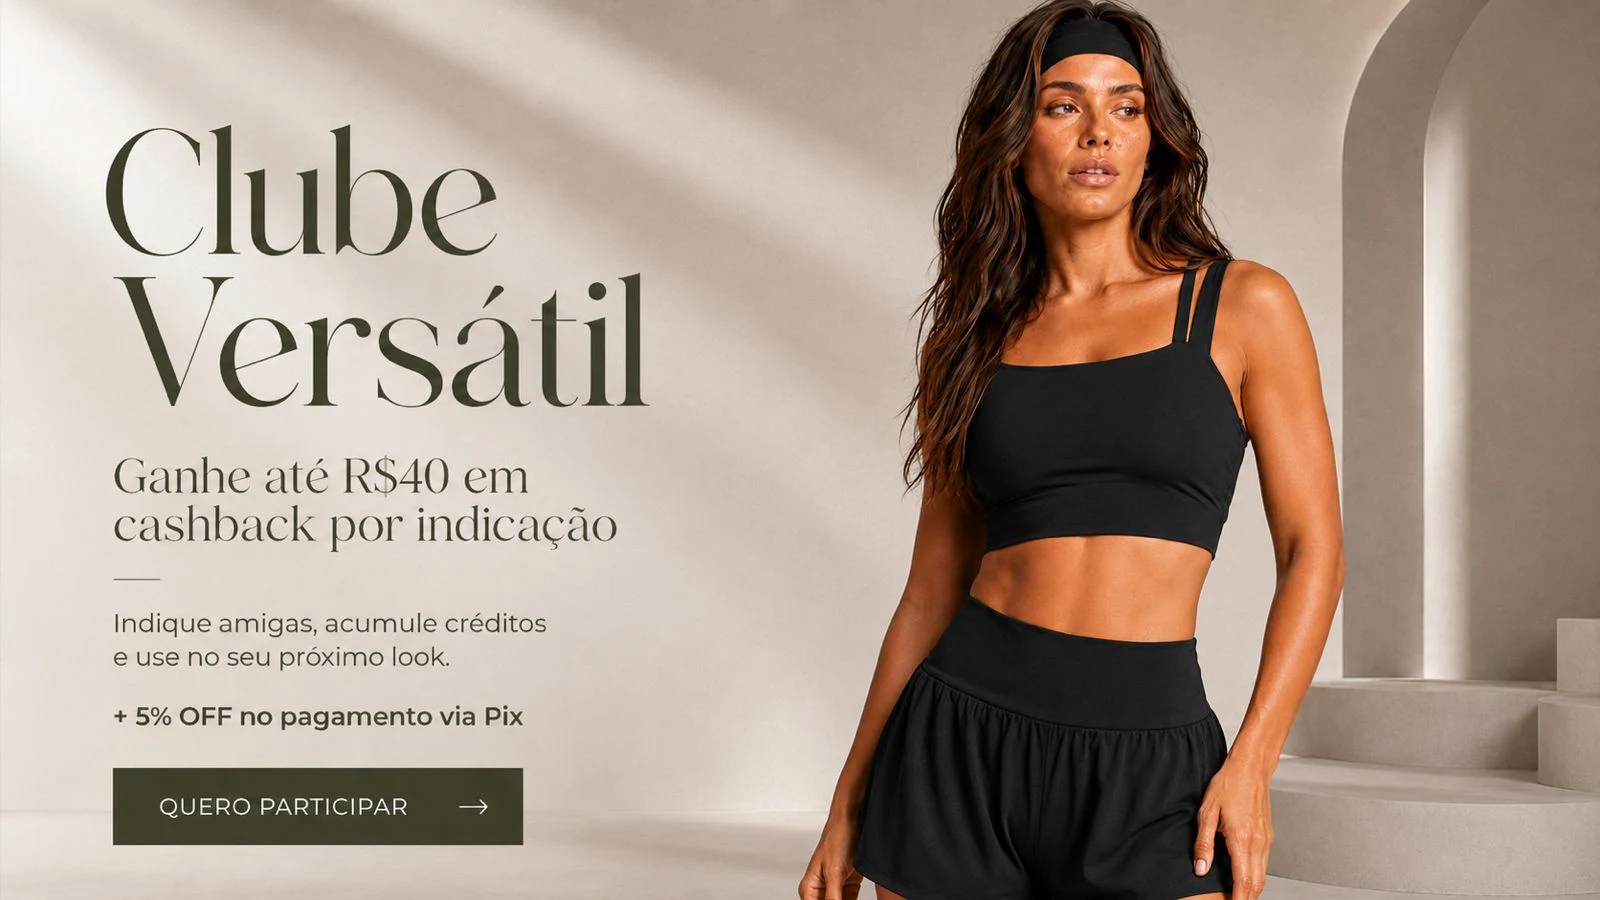
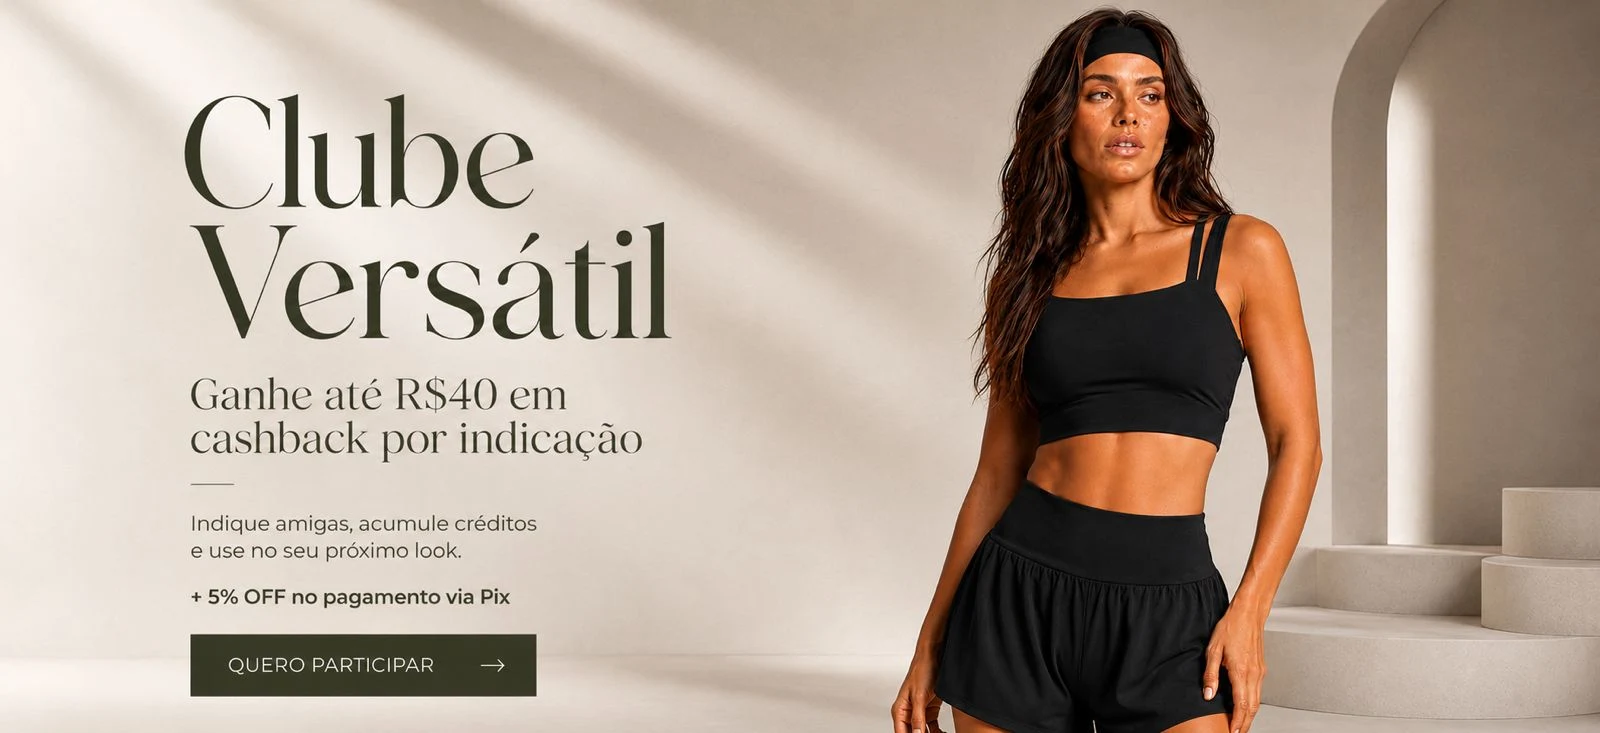
Update Clube hero and remove discount popup

diff --git a/script2.js b/script2.js
@@ -123,43 +123,6 @@ const loadingOverlay = document.getElementById('loadingOverlay');
   }
 }
     
-// ==================== POPUP PROMOCIONAL ====================
-function showPromoPopup() {
-    const overlay = document.getElementById('promoPopupOverlay');
-    if (!overlay) {
-        console.warn('⚠ Elemento #promoPopupOverlay não encontrado');
-        return;
-    }
-    
-    const lastClosed = localStorage.getItem('promoPopupLastClosed');
-    const now = Date.now();
-    
-    // AJUSTE AQUI: 5 minutos = 5 * 60 * 1000
-    // Para 10 minutos, mude o 5 para 10
-    const POPUP_COOLDOWN = 5 * 60 * 1000; 
-
-    if (lastClosed && (now - parseInt(lastClosed)) < POPUP_COOLDOWN) {
-        console.log('🚫 Popup fechado recentemente - aguardando intervalo de tempo');
-        return;
-    }
-    
-    requestAnimationFrame(() => {
-        overlay.classList.add('active');
-    });
-    console.log('✅ Popup promocional exibido');
-}
-
-function closePromoPopup() {
-    const overlay = document.getElementById('promoPopupOverlay');
-    if (!overlay) return;
-    
-    overlay.classList.remove('active');
-    
-    localStorage.setItem('promoPopupLastClosed', Date.now().toString());
-    console.log('🚫 Popup fechado - timer reiniciado');
-}
-
-
 // ==================== CONFIGURAÇÕES E CONSTANTES ====================
 const itemsPerPage = window.innerWidth <= 768 ? 8 : 12;
 const WHATSAPP_NUMBER = '5571993333570';
@@ -5818,27 +5781,6 @@ window.addEventListener('authStateUpdated', (e) => {
     if (typeof updateFavoriteStatus === 'function') {
         updateFavoriteStatus();
     }
-});
-
-document.addEventListener('click', (e) => {
-    const overlay = document.getElementById('promoPopupOverlay');
-    if (overlay && e.target === overlay) {
-        closePromoPopup();
-    }
-});
-
-document.addEventListener('keydown', (e) => {
-    const overlay = document.getElementById('promoPopupOverlay');
-    if (e.key === 'Escape' && overlay && overlay.classList.contains('active')) {
-        closePromoPopup();
-    }
-});
-
-window.addEventListener('load', () => {
-    // Mantem a primeira dobra livre para o visitante absorver a vitrine antes da oferta.
-    setTimeout(() => {
-        showPromoPopup();
-    }, 9000);
 });
 
 document.addEventListener('keydown', (e) => {

diff --git a/index.html b/index.html
@@ -87,7 +87,6 @@
   <div class="top-banner-rotative">
     <div class="banner-message active">FRETE GRÁTIS para todo Brasil nas compras acima de R$ 399,90</div>
     <div class="banner-message">PARCELE EM ATÉ <strong>3X SEM JUROS</strong> no cartão de crédito</div>
-    <div class="banner-message">GANHE <strong>10% DE DESCONTO</strong> pagando no PIX</div>
     <div class="banner-message"><strong>ALTA TECNOLOGIA</strong> para performance e conforto</div>
   </div>
 
@@ -915,26 +914,6 @@
       <button class="payment-confirm-btn" onclick="sendToWhatsApp()" type="button">📱 Finalizar Pedido via WhatsApp</button>
     </div>
   </div>
-
-<!-- ==================== POPUP PROMOCIONAL ==================== -->
-<div class="promo-popup-overlay" id="promoPopupOverlay">
-  <div class="promo-popup-content">
-    <button class="promo-popup-close" onclick="closePromoPopup()" aria-label="Fechar">
-      ✕
-    </button>
-
-    <div class="promo-popup-layout no-image">
-      <div class="promo-popup-copy">
-        <span class="promo-popup-kicker">benefício exclusivo</span>
-        <strong>10% OFF no PIX</strong>
-        <p>Escolha seus looks favoritos e finalize com atendimento seguro pelo WhatsApp.</p>
-        <button class="promo-popup-cta" type="button" onclick="closePromoPopup(); scrollToProducts();">
-          Ver coleção
-        </button>
-      </div>
-    </div>
-  </div>
-</div>
 
 <script defer src="https://www.gstatic.com/firebasejs/10.7.1/firebase-app-compat.js"></script>
 <script defer src="https://www.gstatic.com/firebasejs/10.7.1/firebase-auth-compat.js"></script>

diff --git a/produto.html b/produto.html
@@ -75,7 +75,6 @@
 <div class="top-banner-rotative">
     <div class="banner-message active">FRETE GRÁTIS para todo Brasil nas compras acima de R$ 399,90</div>
     <div class="banner-message">PARCELE EM ATÉ <strong>3X SEM JUROS</strong> no cartão de crédito</div>
-    <div class="banner-message">GANHE <strong>10% DE DESCONTO</strong> pagando no PIX</div>
     <div class="banner-message"><strong>ALTA TECNOLOGIA</strong> - Compre sem medo</div>
 </div>
 

diff --git a/meus_pedidos.html b/meus_pedidos.html
@@ -47,7 +47,6 @@
   <div class="top-banner-rotative">
     <div class="banner-message active">FRETE GRÁTIS para todo Brasil nas compras acima de R$ 399,90</div>
     <div class="banner-message">PARCELE EM ATÉ <strong>3X SEM JUROS</strong> no cartão de crédito</div>
-    <div class="banner-message">GANHE <strong>10% DE DESCONTO NO PIX</strong> pagando no PIX</div>
   </div>
 
   <!-- Header -->

diff --git a/css2.css b/css2.css
@@ -237,7 +237,7 @@ body.home-page .hero-slide.hero-slide-clube-versatil .hero-content {
   body.home-page .hero-slide.hero-slide-clube-versatil {
     background-color: #e4dbd0 !important;
     background-position: center center !important;
-    background-size: contain !important;
+    background-size: cover !important;
     background-repeat: no-repeat !important;
   }
 }

diff --git a/sw.js b/sw.js
@@ -1,4 +1,4 @@
-const CACHE_NAME = 'seja-versatil-v1.0.42'; // Atualizei a versão para forçar atualização
+const CACHE_NAME = 'seja-versatil-v1.0.43'; // Atualizei a versão para forçar atualização
 
 const urlsToCache = [
     '/',

diff --git a/TASKS.md b/TASKS.md
@@ -6,14 +6,16 @@ Controle da tarefa atual.
 - Aguardando proxima instrucao do usuario.
 
 ## Status
-- Banner Clube Versatil aplicado no primeiro hero.
+- Banner desktop Clube Versatil atualizado.
+- Popup de 10% removido.
+- Mensagem de 10% removida do topo.
 - Nenhuma tarefa funcional em andamento.
 
 ## Criterios de conclusao
-- Primeiro hero usando Clube Versatil no desktop e mobile.
-- Desktop usando a arte horizontal dedicada.
-- Mobile usando a arte vertical dedicada.
-- Sem texto antigo "Vista sua melhor versao" sobreposto.
+- Desktop usando nova arte ajustada do Clube Versatil.
+- Mobile preservado com arte dedicada existente.
+- Popup de 10% sem markup/disparo.
+- Banner rotativo sem mensagem de 10%.
 - Contexto atualizado ao final.
 
 ## Proximos passos
@@ -35,3 +37,4 @@ Controle da tarefa atual.
 - 2026-05-14: Aplicada arte mobile final do banner V1, mantendo desktop com a arte original.
 - 2026-05-14: Deploy do ajuste mobile V1 autorizado para o GitHub Pages.
 - 2026-05-14: Primeiro hero trocado para Clube Versatil, com assets separados para desktop e mobile.
+- 2026-05-14: Banner desktop Clube Versatil substituido por arte ajustada; popup e mensagem de 10% removidos.

diff --git a/CHANGELOG_CODEX.md b/CHANGELOG_CODEX.md
@@ -3,6 +3,21 @@
 Registro objetivo das alteracoes feitas pelo Codex.
 
 ## 2026-05-14
+- Tipo: ajuste visual/conteudo
+- Arquivos alterados:
+  - `assets/home/hero-clube-versatil.webp`
+  - `css2.css`
+  - `index.html`
+  - `produto.html`
+  - `meus_pedidos.html`
+  - `script2.js`
+  - `sw.js`
+  - arquivos de contexto Codex
+- Resumo: banner desktop do Clube Versatil substituido pela arte ajustada; popup promocional de 10% removido; mensagem de 10% removida dos banners rotativos de topo.
+- Validacao: imagem desktop convertida para WebP em 1600x733; `node --check script2.js`; Playwright confirmou desktop com `hero-clube-versatil.webp` em `cover`, mobile preservado com `hero-clube-versatil-mobile.webp`, popup ausente e topo sem mensagem de 10%.
+- Proxima acao: publicar em `main` e validar no site publico.
+
+## 2026-05-14
 - Tipo: ajuste visual/deploy
 - Arquivos alterados:
   - `assets/home/hero-clube-versatil.webp`

diff --git a/PROJECT_CONTEXT.md b/PROJECT_CONTEXT.md
@@ -53,6 +53,8 @@ Memoria objetiva do projeto para orientar proximas sessoes do Codex.
 - Codigo do hero preparado para trocar automaticamente para artes mobile quando os arquivos `*-mobile.webp` existirem.
 - O V1 ja possui arte mobile dedicada em `assets/home/hero-v1-collection-mobile.webp`; desktop continua usando `assets/home/hero-v1-collection.webp`.
 - O primeiro hero foi trocado para Clube Versatil: desktop usa `assets/home/hero-clube-versatil.webp` e mobile usa `assets/home/hero-clube-versatil-mobile.webp`.
+- Popup promocional de 10% removido da home.
+- Mensagem de 10% removida dos banners rotativos de topo da home, produto e meus pedidos.
 - Projeto aguardando proxima instrucao do usuario.
 
 ## Pontos sensiveis
